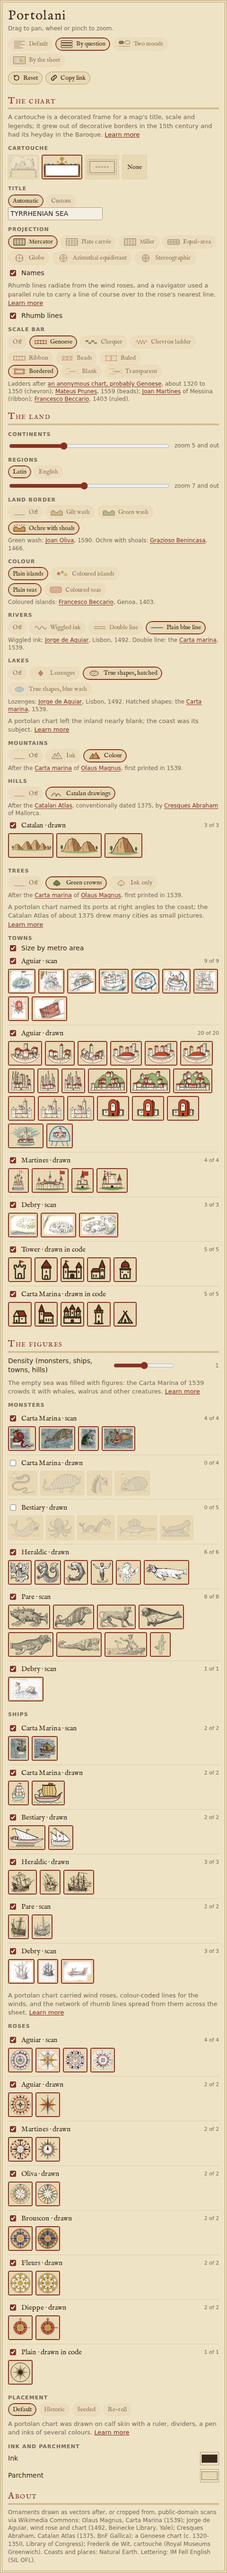
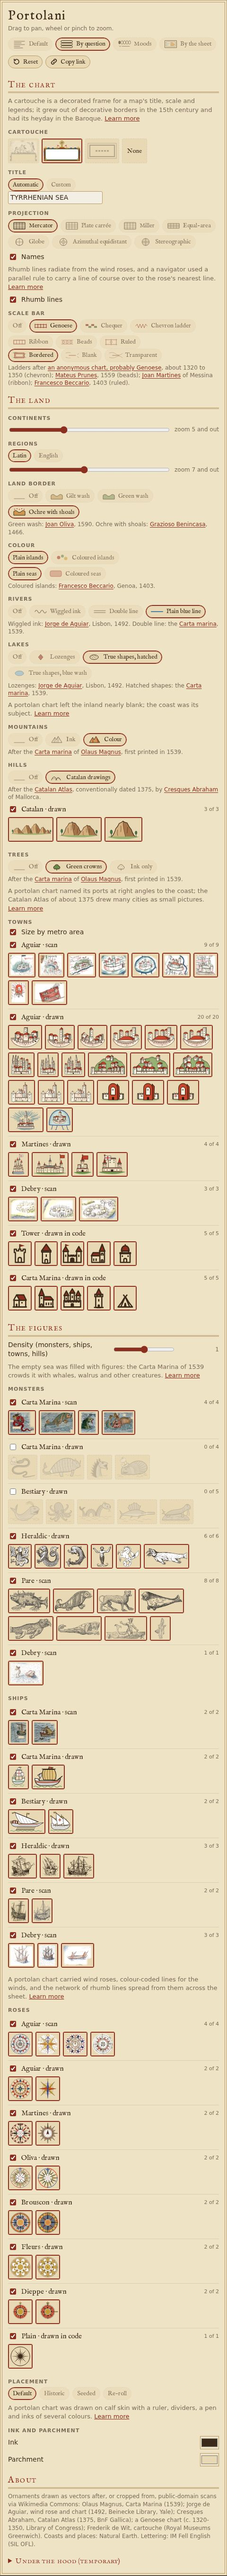
feat(drawer): five moods, each a whole look, under the Moods layout (#225)
The Moods layout (layout=moods, chip "Moods", was "Two moods") offers
five looks, sparse to dense: Pilot's chart, Tasteful, Woodcut,
Illuminated and All the things. Each sets the density, the placement,
the figures and every style of the land, the water and the colours
(land, islands, seas, rivers, lakes, mountains, trees, ink, parchment),
at the default where it does not depart from it, so a mood replaces
the whole look another left. Each chip's strip shows figures from its
own selection. Fine controls stays closed and keeps By question.

hash.test.mjs clicks each mood in turn: its density, placement,
figures and styles land in the hash, its chip alone shows on, and a
page with no mood shows none. The drawer shots are reshot with the
renamed chip; five map renders show each mood at the PR's view.

diff --git a/public/page.js b/public/page.js
@@ -491,7 +491,7 @@ const STYLE_SWITCHES = [
   ['rivers', 'Rivers', RIVER_GLYPHS.plain], ['lakes', 'Lakes', LAKE_GLYPHS.marina],
 ];
 let showUiNow = () => {};
-let showMoods = () => {}; // the layout Two moods: its two chips show whether the style is theirs
+let showMoods = () => {}; // the layout Moods: its chips show which look is on
 if (UI) {
   document.documentElement.dataset.ui = UI;
   $('ui').hidden = false;
@@ -712,8 +712,8 @@ const LAYOUTS = {
     glyph: svg(`<path d="M3 3h22M3 6.5h15M3 10h22M3 13.5h12M3 17h18" ${stroke('currentColor', 1)}/>`) },
   question: { label: 'By question', note: 'three groups: the chart, the land, the figures', groups: BY_QUESTION,
     glyph: svg(`<rect x="2" y="1.5" width="24" height="4" rx="1.5" ${stroke('currentColor', 1)}/><rect x="2" y="7" width="24" height="4" rx="1.5" ${stroke('currentColor', 1)}/><rect x="2" y="12.5" width="24" height="4" rx="1.5" ${stroke('currentColor', 1)}/>`) },
-  moods: { label: 'Two moods', note: 'Tasteful or All the things at a click, every control under Fine controls', groups: BY_QUESTION, moods: true,
-    glyph: svg(`<rect x="2" y="2" width="11" height="7" rx="3.5" fill="currentColor"/><rect x="15" y="2" width="11" height="7" rx="3.5" ${stroke('currentColor', 1)}/><path d="M3 12.5l2 2 2-2M9 13.5h16" ${stroke('currentColor', 0.8)}/>`) },
+  moods: { label: 'Moods', note: 'five looks at a click, every control under Fine controls', groups: BY_QUESTION, moods: true,
+    glyph: svg(`<rect x="1.5" y="2" width="4.4" height="7" rx="2.2" fill="currentColor"/>${[6.8, 12.1, 17.4, 22.7].map((x) => `<rect x="${x}" y="2" width="4.4" height="7" rx="2.2" ${stroke('currentColor', 0.8)}/>`).join('')}<path d="M3 12.5l2 2 2-2M9 13.5h16" ${stroke('currentColor', 0.8)}/>`) },
   sheet: { label: 'By the sheet', note: 'where it is drawn: the sea, the land, the margins',
     groups: [['Sea', ['monsters', 'ships', 'density', 'placement']], ['Land', LAND_GROUP], ['Margins', ['cartouche', 'scale', 'roses', 'rhumb', 'names', 'projection', 'colours']]],
     glyph: svg(`<rect x="1.5" y="1.5" width="25" height="15" ${stroke('currentColor', 1)}/><rect x="4" y="4" width="20" height="10" ${stroke('currentColor', 0.5)}/><path d="M14 5q5 0 8 3t-3 5h-5q-2-4 0-8Z" fill="#c47f2c" fill-opacity=".75"/><path d="M5.5 8q1.5-1.5 3 0t3 0M5.5 11q1.5-1.5 3 0" ${stroke('#4a7fa0', 0.8)}/>`) },
@@ -732,38 +732,59 @@ for (const [name, { label, note, glyph }] of Object.entries(LAYOUTS)) {
   $('layout').append(b);
 }
 
-// Two moods: two presets that set the existing controls at once, and every control under Fine controls.
-// Tasteful: the default figures, sparse, at the charts' own places. All the things: every figure of every
-// kind (the cartouche as chosen), the density at the top, a new seed.
+// Moods: five whole looks at a click, sparse to dense, and every control under Fine controls. A mood sets the
+// density, the placement, the figures and every style of the land, the water and the colours, each at its default
+// where the mood does not depart from it, so a mood replaces the whole look another left. Figures are named as the
+// hash names them (v:merman). All the things: every figure of every kind (the cartouche as chosen), the density at
+// the top, a new seed.
 const FIGURE_KINDS = ['monster', 'ship', 'rose', 'town', 'mountain'];
 const FIGURES = SPRITES.filter((s) => FIGURE_KINDS.includes(s.kind)).map((s) => s.key);
 const DEFAULT_SET = new Set(DEFAULT_SELECTION);
+const MOOD_STYLES = ['land', 'islands', 'seaTint', 'rivers', 'lakes', 'mountains', 'trees', 'ink', 'parchment'];
+const PLAIN_LOOK = Object.fromEntries(MOOD_STYLES.map((k) => [k, DEFAULTS[k]]));
+const HILLS = ['v:mountains-a', 'v:mountains-b', 'v:mountains-c'];
+const AGUIAR_SCAN = ['venice', 'genoa', 'lisbon', 'lake', 'lake-moat', 'smina', 'jerusalem', 'ceuta', 'avignon'].map((t) => `s:town-aguiar-${t}`);
+const AGUIAR_DRAWN = ['walled', 'walled-2', 'walled-3', 'hall', 'hall-2', 'hall-3', 'towers', 'towers-2', 'towers-3', 'hill', 'hill-2', 'hill-3', 'church', 'church-2', 'church-3', 'gate', 'gate-2', 'gate-3', 'venice', 'moat'].map((t) => `v:town-aguiar-${t}`);
+// a look with fixed figures, at the charts' own places; its chip shows the first of its figures of each of `kinds`
+const fixedMood = (label, note, kinds, figures, styles) => {
+  const look = { ...PLAIN_LOOK, placement: 'historic', ...styles }, keys = figures.map(decodeKey).filter((k) => BY_KEY.has(k));
+  return { label, note, kinds, keys, set: () => ({ ...look, selection: new Set(keys) }),
+    is: () => Object.entries(look).every(([k, v]) => style[k] === v) && sameSet(selection, new Set(keys)) };
+};
 const MOODS = [
-  { label: 'Tasteful', note: 'density ½, the charts’ own places, the default figures', kinds: ['rose', 'monster'],
-    set: () => ({ density: 0.5, placement: 'historic', selection: new Set(DEFAULT_SET) }),
-    is: () => style.density === 0.5 && style.placement === 'historic' && sameSet(selection, DEFAULT_SET) },
-  { label: 'All the things', note: 'density 2, re-rolled, every figure on', kinds: ['monster', 'ship', 'rose', 'town', 'mountain'], all: true,
+  fixedMood('Pilot’s chart', 'lines, names and a plain rose: the working chart, nothing drawn on it', ['rose'],
+    ['p:rose'], { density: 0, land: 'off', rivers: 'off', lakes: 'off', mountains: 'off', trees: 'off' }),
+  fixedMood('Tasteful', 'Majorcan: a Catalan rose, coloured islands, tinted seas, hills, a few figures, at half density', ['rose', 'monster', 'mountain'],
+    ['s:rose-catalan', 'v:rose-catalan', 'v:cartouche-frame', 'v:merman', 'v:hippocampus', 'v:galley', 'v:caravel', ...HILLS, ...AGUIAR_SCAN],
+    { density: 0.5, islands: true, seaTint: true, mountains: 'off' }), // the Catalan hills carry the relief
+  fixedMood('Woodcut', 'printed: ink on paper, the Carta Marina’s and Paré’s creatures, hatched mountains', ['monster', 'ship'],
+    ['p:rose', 's:cartouche-dewit', 's:serpent-a', 's:whale-b', 's:pistrix-c', 's:cete-e', 's:pare-truie', 's:pare-boar', 's:pare-lion', 's:pare-calf', 's:pare-elephant', 's:pare-bear', 's:pare-seaman', 's:pare-bishop', 'd:debry-monster', 's:ship-a', 's:ship-b', 's:ship-w-key', 's:ship-w-buss', 'd:debry-ship-a', 'd:debry-ship-b', 'd:debry-canoe', 'p:tower', 'p:tower-dome', 'p:house', 'p:church', 'p:castle', 'p:round-tower', 'p:tent'],
+    { density: 1, land: 'off', rivers: 'marina', lakes: 'marina', mountains: 'ink', trees: 'ink', ink: '#1d1913', parchment: '#efe9dc' }),
+  fixedMood('Illuminated', 'gilt land, blue rivers, coloured islands, the scanned roses, every Aguiar town', ['rose', 'monster', 'town'],
+    ['s:rose-aguiar', 's:rose-catalan', 's:rose-prunes', 's:rose-aguiar-b', 'v:rose-fleurs', 'v:rose-fleurs-small', 'v:cartouche-frame', 'v:sea-dragon', 'v:sea-lion', 'v:dolphin', 'v:merman', 'v:hippocampus', 'v:walrus', 'v:galleon', 'v:caravel-heraldic', 'v:carrack', 'v:galley', 'v:caravel', ...HILLS, ...AGUIAR_SCAN, ...AGUIAR_DRAWN],
+    { density: 1.5, land: 'gilt', islands: true, seaTint: true, rivers: 'aguiar', lakes: 'aguiar', mountains: 'colour', trees: 'marina' }),
+  { label: 'All the things', note: 'density 2, re-rolled, every figure on, the styles at their defaults', kinds: FIGURE_KINDS, keys: FIGURES, all: true,
     set: () => {
       const cartouche = CARTOUCHES.filter((k) => selection.has(k));
-      return { density: 2, placement: `seed:${(Math.random() * 2 ** 31) | 0}`, selection: new Set([...FIGURES, ...(cartouche.length ? cartouche : CARTOUCHES.filter((k) => DEFAULT_SET.has(k)))]) };
+      return { ...PLAIN_LOOK, density: 2, placement: `seed:${(Math.random() * 2 ** 31) | 0}`, selection: new Set([...FIGURES, ...(cartouche.length ? cartouche : CARTOUCHES.filter((k) => DEFAULT_SET.has(k)))]) };
     },
-    is: () => style.density === 2 && style.placement.startsWith('seed:') && FIGURES.every((k) => selection.has(k)) },
+    is: () => style.density === 2 && style.placement.startsWith('seed:') && FIGURES.every((k) => selection.has(k)) && MOOD_STYLES.every((k) => style[k] === PLAIN_LOOK[k]) },
 ];
 const moods = Object.assign(document.createElement('div'), { className: 'presets moods' });
 moods.setAttribute('role', 'radiogroup'); moods.setAttribute('aria-label', 'Mood');
 for (const m of MOODS) {
   const strip = document.createElement('span');
   strip.className = 'sample';
-  // a figure of each kind it shows: the default one, or for All the things one more from another set
+  // a figure of each kind it shows, the first of its own; for All the things one from outside the default set
   for (const kind of m.kinds) {
-    const of = SPRITES.filter((s) => s.kind === kind), pick = (m.all ? of.filter((s) => !DEFAULT_SET.has(s.key)) : []).concat(of.filter((s) => DEFAULT_SET.has(s.key)), of)[0];
+    const of = m.keys.map((k) => BY_KEY.get(k)).filter((s) => s.kind === kind), pick = (m.all ? of.filter((s) => !DEFAULT_SET.has(s.key)) : []).concat(of)[0];
     if (pick) strip.append(...sampleOf(pick).children);
   }
   const b = chipButton('radio', strip, Object.assign(document.createElement('b'), { textContent: m.label }), Object.assign(document.createElement('small'), { textContent: m.note }));
   b.classList.add('preset'); b.title = `${m.label}: ${m.note}`;
   b.addEventListener('click', () => {
-    const { density, placement, selection: next } = m.set();
-    style = { ...style, density, placement };
+    const { selection: next, ...look } = m.set();
+    style = { ...style, ...look };
     selection = next;
     showPlacement(); changed();
   });
